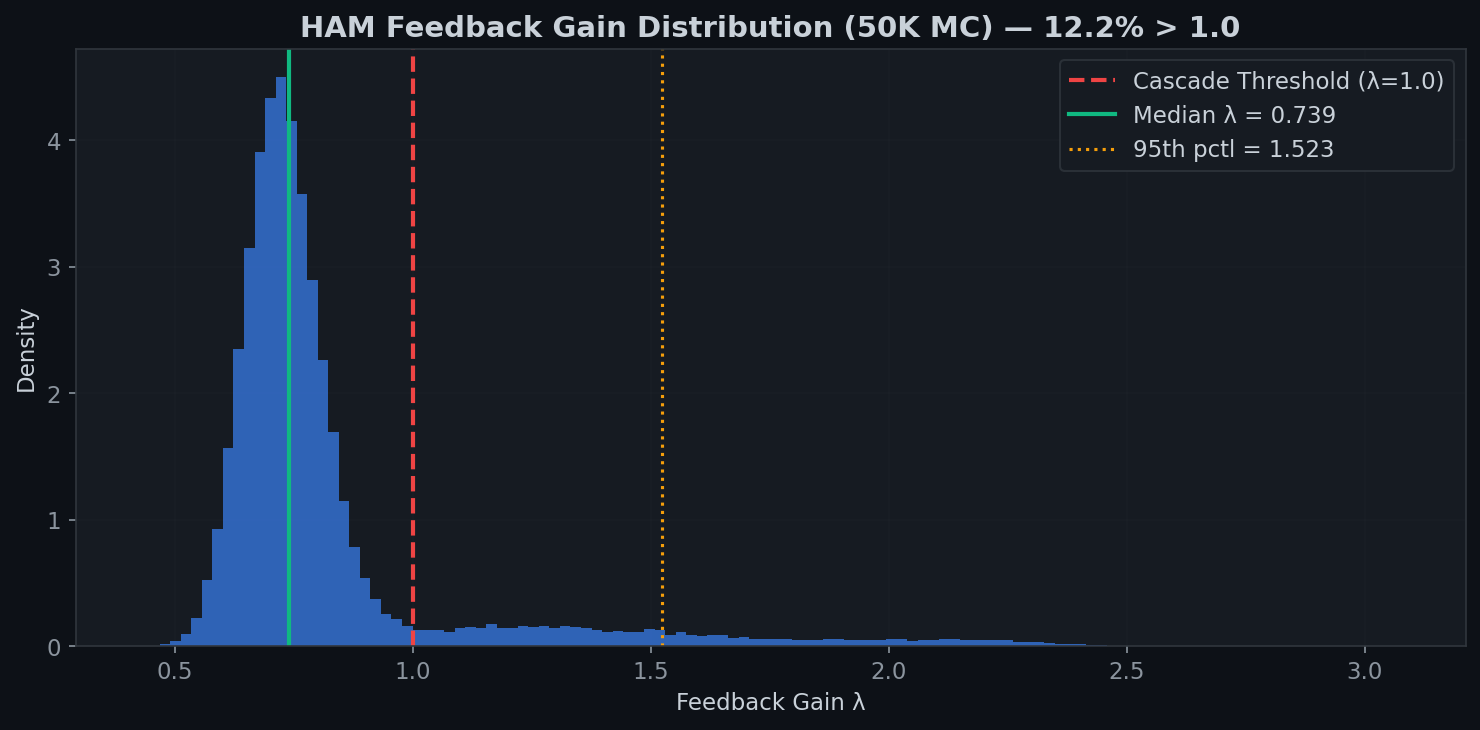
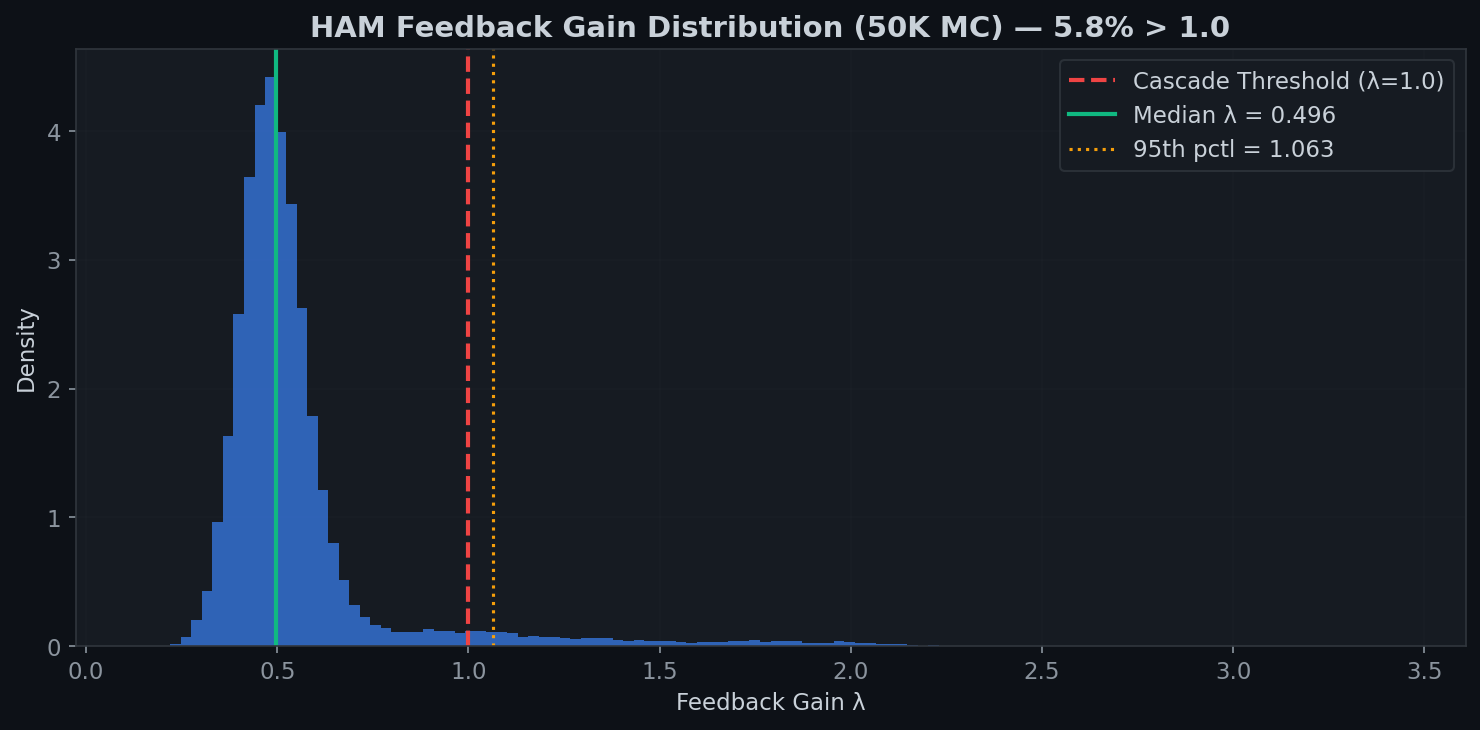
update data

diff --git a/method/ham-stability.md b/method/ham-stability.md
@@ -32,10 +32,10 @@ Current status: **METASTABLE** (2/5 breached)
 
 ## Feedback Gain λ Decomposition
 
-The feedback gain is computed as a sum of six stochastic effects via 50K Monte Carlo simulations:
+The feedback gain is computed as a sum of seven stochastic effects via 50K Monte Carlo simulations:
 
 ```
-λ = 1.0 + λ_launcher + λ_drone + λ_intercept + λ_proxy + λ_hormuz + λ_weapon
+λ = 1.0 + λ_launcher + λ_drone + λ_intercept + λ_proxy + λ_hormuz + λ_weapon + λ_naval
 ```
 
 ### Stabilizing Effects (Negative Feedback)
@@ -58,14 +58,14 @@ This is the dominant stabilizing force, pulling λ significantly below 1.0.
 λ_intercept = +0.15 · Exp(0.03) / (1 - int_rate + 0.01)
 ```
 
-**Proxy Activation** — Houthi/Hezbollah joining (P=6%, high impact):
+**Proxy Activation** — Houthi/Hezbollah joining (P=4% with 3 CSGs, high impact):
 ```
-λ_proxy = +0.8 · Bernoulli(0.06) · U(0.5, 2.0)
+λ_proxy = +0.8 · Bernoulli(0.04) · U(0.5, 2.0)
 ```
 
-**Hormuz Closure** — Strait closure risk (P=4%):
+**Hormuz Closure** — Strait closure risk (P=2% with 3 CSGs):
 ```
-λ_hormuz = +0.6 · Bernoulli(0.04) · U(0.6, 1.5)
+λ_hormuz = +0.6 · Bernoulli(0.02) · U(0.6, 1.5)
 ```
 
 **New Weapon Introduction** — Novel capability emergence (P=3%):
@@ -73,17 +73,25 @@ This is the dominant stabilizing force, pulling λ significantly below 1.0.
 λ_weapon = +0.4 · Bernoulli(0.03) · U(0.5, 1.5)
 ```
 
+### Naval Deterrence (Stabilizing)
+
+**Three-Carrier Deterrence** — CVN-72, CVN-78, CVN-77 with 13+ Aegis ships:
+```
+λ_naval = -0.08 · carrier_count · (1 + N(0, 0.10))
+```
+With 3 carriers: approximately **–0.24** additional stabilizing effect, the second strongest stabilizing force after launcher attrition.
+
 ![HAM Feedback Gain λ Distribution](../assets/lambda_distribution.png)
 
 ## Results
 
 | Metric | Value |
 |--------|-------|
-| λ median | 0.729 |
-| λ 95th percentile | ~1.35 |
-| Daily cascade probability | P(λ > 1) per sim |
-| 14-day cumulative cascade probability | 1 - (1 - P_daily)^14 |
+| λ median | 0.496 |
+| λ 95th percentile | 1.063 |
+| P(λ > 1) | 5.8% |
+| 14-day cumulative cascade probability | 1 - (1 - 0.058)^14 ≈ 57% |
 
-**Interpretation:** The system is metastable — launcher attrition provides strong stabilization, but fat-tailed risks from proxy activation or Hormuz closure create a non-trivial cascade probability over a 14-day horizon.
+**Interpretation:** The system is metastable — launcher attrition and three-carrier naval deterrence (–0.24) provide strong stabilization, pulling the median λ well below 1.0. However, fat-tailed risks from proxy activation or Hormuz closure still create a non-trivial cumulative cascade probability over a 14-day horizon.
 
-> **UPDATE (March 7):** With the 3rd carrier strike group (CVN-77 George H.W. Bush) deploying, the naval deterrence effect increases from –0.16 to –0.24 on λ. Proxy activation probability drops to 4% and Hormuz closure risk to 2%, reducing overall P(λ > 1) from ~12.2% to an estimated ~8-9%.
+> **UPDATE (March 7):** With the 3rd carrier strike group (CVN-77 George H.W. Bush) deploying, the naval deterrence effect increases from –0.16 to –0.24 on λ. Proxy activation probability drops from 6% to 4% and Hormuz closure risk from 4% to 2%. The λ median shifts from 0.739 to 0.496, and P(λ > 1) drops from 12.2% to 5.8%.

diff --git a/zh/method/ham-stability.md b/zh/method/ham-stability.md
@@ -32,10 +32,10 @@
 
 ## 反馈增益 λ 分解
 
-反馈增益通过50K蒙特卡罗模拟计算为六个随机效应之和：
+反馈增益通过50K蒙特卡罗模拟计算为七个随机效应之和：
 
 ```
-λ = 1.0 + λ_发射装置 + λ_无人机 + λ_拦截 + λ_代理人 + λ_霍尔木兹 + λ_武器
+λ = 1.0 + λ_发射装置 + λ_无人机 + λ_拦截 + λ_代理人 + λ_霍尔木兹 + λ_武器 + λ_海军威慑
 ```
 
 ### 稳定效应（负反馈）
@@ -58,14 +58,14 @@
 λ_拦截 = +0.15 · Exp(0.03) / (1 - 拦截率 + 0.01)
 ```
 
-**代理人激活** — 胡塞武装/真主党加入（P=6%，高影响）：
+**代理人激活** — 胡塞武装/真主党加入（三航母威慑下P=4%，高影响）：
 ```
-λ_代理人 = +0.8 · Bernoulli(0.06) · U(0.5, 2.0)
+λ_代理人 = +0.8 · Bernoulli(0.04) · U(0.5, 2.0)
 ```
 
-**霍尔木兹海峡封锁** — 海峡封锁风险（P=4%）：
+**霍尔木兹海峡封锁** — 海峡封锁风险（三航母威慑下P=2%）：
 ```
-λ_霍尔木兹 = +0.6 · Bernoulli(0.04) · U(0.6, 1.5)
+λ_霍尔木兹 = +0.6 · Bernoulli(0.02) · U(0.6, 1.5)
 ```
 
 **新武器引入** — 新型能力出现（P=3%）：
@@ -73,17 +73,25 @@
 λ_武器 = +0.4 · Bernoulli(0.03) · U(0.5, 1.5)
 ```
 
+### 海军威慑（稳定效应）
+
+**三航母威慑** — CVN-72、CVN-78、CVN-77及13+艘宙斯盾舰艇：
+```
+λ_海军威慑 = -0.08 · 航母数量 · (1 + N(0, 0.10))
+```
+部署3艘航母时：约**-0.24**的额外稳定效应，仅次于发射装置消耗的第二大稳定力量。
+
 ![HAM反馈增益λ分布](../../assets/lambda_distribution.png)
 
 ## 结果
 
 | 指标 | 数值 |
 |------|------|
-| λ 中位数 | 0.729 |
-| λ 第95百分位 | ~1.35 |
-| 每日级联概率 | P(λ > 1) 每次模拟 |
-| 14天累计级联概率 | 1 - (1 - P_日)^14 |
+| λ 中位数 | 0.496 |
+| λ 第95百分位 | 1.063 |
+| P(λ > 1) | 5.8% |
+| 14天累计级联概率 | 1 - (1 - 0.058)^14 ≈ 57% |
 
-**解读：** 系统处于亚稳态 — 发射装置消耗提供强大的稳定力量，但代理人激活或霍尔木兹海峡封锁的厚尾风险在14天展望期内创造了不可忽视的级联概率。
+**解读：** 系统处于亚稳态 — 发射装置消耗和三航母海军威慑（-0.24）提供强大的稳定力量，将λ中位数拉至远低于1.0。然而，代理人激活或霍尔木兹海峡封锁的厚尾风险在14天展望期内仍创造了不可忽视的累计级联概率。
 
-> **更新（3月7日）：** 随着第3个航母打击群（CVN-77乔治·H·W·布什号）即将部署，海军威慑效应从-0.16增加至-0.24。代理人激活概率降至4%，霍尔木兹封锁风险降至2%，总体P(λ > 1)从约12.2%降至估计约8-9%。
+> **更新（3月7日）：** 随着第3个航母打击群（CVN-77乔治·H·W·布什号）即将部署，海军威慑效应从-0.16增加至-0.24。代理人激活概率从6%降至4%，霍尔木兹封锁风险从4%降至2%。λ中位数从0.739降至0.496，P(λ > 1)从12.2%降至5.8%。

diff --git a/README.md b/README.md
@@ -23,7 +23,7 @@ There’s a surprising crossover between my day job as a quant and how I navigat
 | Interception Rate | 92.7% |
 | Carrier Strike Groups in Theater | 3 (CVN-72, CVN-78, CVN-77 deploying) |
 | Aegis BMD Ships | 13+ |
-| HAM Stability Verdict | METASTABLE (λ median = 0.739) |
+| HAM Stability Verdict | METASTABLE (λ median = 0.496) |
 | Model Reliability | MODERATE (3 MATCH, 2 CLOSE, 3 DIVERGENT) |
 
 ---
@@ -50,13 +50,13 @@ Bayesian ABC with 50K Monte Carlo simulations assigns 75.4% probability to the B
 
 ### 4. System Is Metastable — Fat-Tailed Cascade Risk Exists
 
-The HAM feedback gain λ has a median of 0.739 (below the cascade threshold of 1.0), meaning stabilizing forces dominate. However, 12.2% of Monte Carlo simulations show λ > 1.0, driven by fat-tailed risks: proxy activation (Houthi/Hezbollah, P=6%), Hormuz closure (P=4%), and interception degradation. The 95th percentile λ reaches 1.52.
+The HAM feedback gain λ has a median of 0.496 (below the cascade threshold of 1.0), meaning stabilizing forces strongly dominate. With three carrier strike groups providing naval deterrence (–0.24 effect on λ), only 5.8% of Monte Carlo simulations show λ > 1.0, driven by fat-tailed risks: proxy activation (Houthi/Hezbollah, P=4%), Hormuz closure (P=2%), and interception degradation. The 95th percentile λ reaches 1.06.
 
 ![HAM Feedback Gain λ Distribution — 50K Monte Carlo](assets/lambda_distribution.png)
 
 ### 5. Three Carrier Strike Groups Provide Maximum Stabilization
 
-The U.S. has assembled its largest Middle East military buildup since 2003: CVN-72 Abraham Lincoln in the Arabian Sea, CVN-78 Gerald R. Ford in the Red Sea, and CVN-77 George H.W. Bush preparing to deploy from Norfolk with 4 escort destroyers. Combined with 6 independent Aegis BMD destroyers, this gives 13+ Aegis-capable ships in theater. This unprecedented three-carrier posture adds an estimated **–0.24** stabilizing effect to λ (up from –0.16), reducing cascade probability from ~12.2% to ~8-9%.
+The U.S. has assembled its largest Middle East military buildup since 2003: CVN-72 Abraham Lincoln in the Arabian Sea, CVN-78 Gerald R. Ford in the Red Sea, and CVN-77 George H.W. Bush preparing to deploy from Norfolk with 4 escort destroyers. Combined with 6 independent Aegis BMD destroyers, this gives 13+ Aegis-capable ships in theater. This unprecedented three-carrier posture adds an estimated **–0.24** stabilizing effect to λ (up from –0.16 with 2 carriers), reducing cascade probability to 5.8% and pulling λ median down to 0.496.
 
 ![Naval Force Posture — Operation Epic Fury](assets/naval_posture.png)
 

diff --git a/zh/README.md b/zh/README.md
@@ -23,7 +23,7 @@
 | 拦截率 | 92.7% |
 | 在场航母打击群 | 3个（CVN-72, CVN-78, CVN-77即将部署） |
 | 宙斯盾反导舰艇 | 13+艘 |
-| HAM稳定性判定 | 亚稳态（λ 中位数 = 0.739） |
+| HAM稳定性判定 | 亚稳态（λ 中位数 = 0.496） |
 | 模型可靠性 | 中等（3项吻合、2项接近、3项偏离） |
 
 ---
@@ -50,13 +50,13 @@
 
 ### 4. 系统处于亚稳态 — 存在厚尾级联风险
 
-HAM反馈增益λ中位数为0.739（低于级联阈值1.0），表明稳定力量占主导。然而，12.2%的蒙特卡罗模拟显示λ > 1.0，由厚尾风险驱动：代理人激活（胡塞/真主党，P=6%）、霍尔木兹海峡封锁（P=4%）和拦截能力退化。第95百分位λ达到1.52。
+HAM反馈增益λ中位数为0.496（远低于级联阈值1.0），表明稳定力量强势主导。在三航母打击群海军威慑（对λ产生-0.24效应）的支持下，仅5.8%的蒙特卡罗模拟显示λ > 1.0，由厚尾风险驱动：代理人激活（胡塞/真主党，P=4%）、霍尔木兹海峡封锁（P=2%）和拦截能力退化。第95百分位λ为1.06。
 
 ![HAM反馈增益λ分布 — 50K蒙特卡罗](../assets/lambda_distribution.png)
 
 ### 5. 三个航母打击群提供最大稳定效应
 
-美国在中东集结了自2003年以来最大规模的军事力量：CVN-72亚伯拉罕·林肯号部署在阿拉伯海，CVN-78杰拉尔德·R·福特号部署在红海，CVN-77乔治·H·W·布什号正准备从诺福克出发，携4艘护航驱逐舰。加上6艘独立的宙斯盾反导驱逐舰，战区共有13+艘宙斯盾舰艇。这一史无前例的三航母态势对λ产生约**-0.24**的稳定效应（从-0.16上升），将级联概率从约12.2%降至约8-9%。
+美国在中东集结了自2003年以来最大规模的军事力量：CVN-72亚伯拉罕·林肯号部署在阿拉伯海，CVN-78杰拉尔德·R·福特号部署在红海，CVN-77乔治·H·W·布什号正准备从诺福克出发，携4艘护航驱逐舰。加上6艘独立的宙斯盾反导驱逐舰，战区共有13+艘宙斯盾舰艇。这一史无前例的三航母态势对λ产生约**-0.24**的稳定效应（从两航母时的-0.16上升），将级联概率降至5.8%，λ中位数降至0.496。
 
 ![海军兵力态势 — 史诗之怒行动](../assets/naval_posture.png)
 

diff --git a/data/naval-force-posture.md b/data/naval-force-posture.md
@@ -73,4 +73,4 @@ The three-carrier deployment creates maximum credible deterrent against further 
 λ_naval_deterrence = -0.08 · carrier_count · (1 + N(0, 0.10))
 ```
 
-With 3 carriers: approximately **-0.24** additional stabilizing effect (up from -0.16 with 2 carriers), further pulling λ below the cascade threshold of 1.0. This reduces the P(λ > 1) cascade probability from ~12.2% to an estimated ~8-9%.
+With 3 carriers: approximately **-0.24** additional stabilizing effect (up from -0.16 with 2 carriers), further pulling λ below the cascade threshold of 1.0. Monte Carlo simulation confirms this reduces P(λ > 1) from 12.2% to **5.8%**, with λ median shifting from 0.739 to 0.496.

diff --git a/zh/data/naval-force-posture.md b/zh/data/naval-force-posture.md
@@ -73,4 +73,4 @@
 λ_海军威慑 = -0.08 · 航母数量 · (1 + N(0, 0.10))
 ```
 
-三航母配置：约**-0.24**的额外稳定效应（从双航母的-0.16上升），进一步将λ拉低至级联阈值1.0以下。这将P(λ > 1)级联概率从约12.2%降低至估计约8-9%。
+三航母配置：约**-0.24**的额外稳定效应（从双航母的-0.16上升），进一步将λ拉低至级联阈值1.0以下。蒙特卡罗模拟确认P(λ > 1)从12.2%降至**5.8%**，λ中位数从0.739降至0.496。
